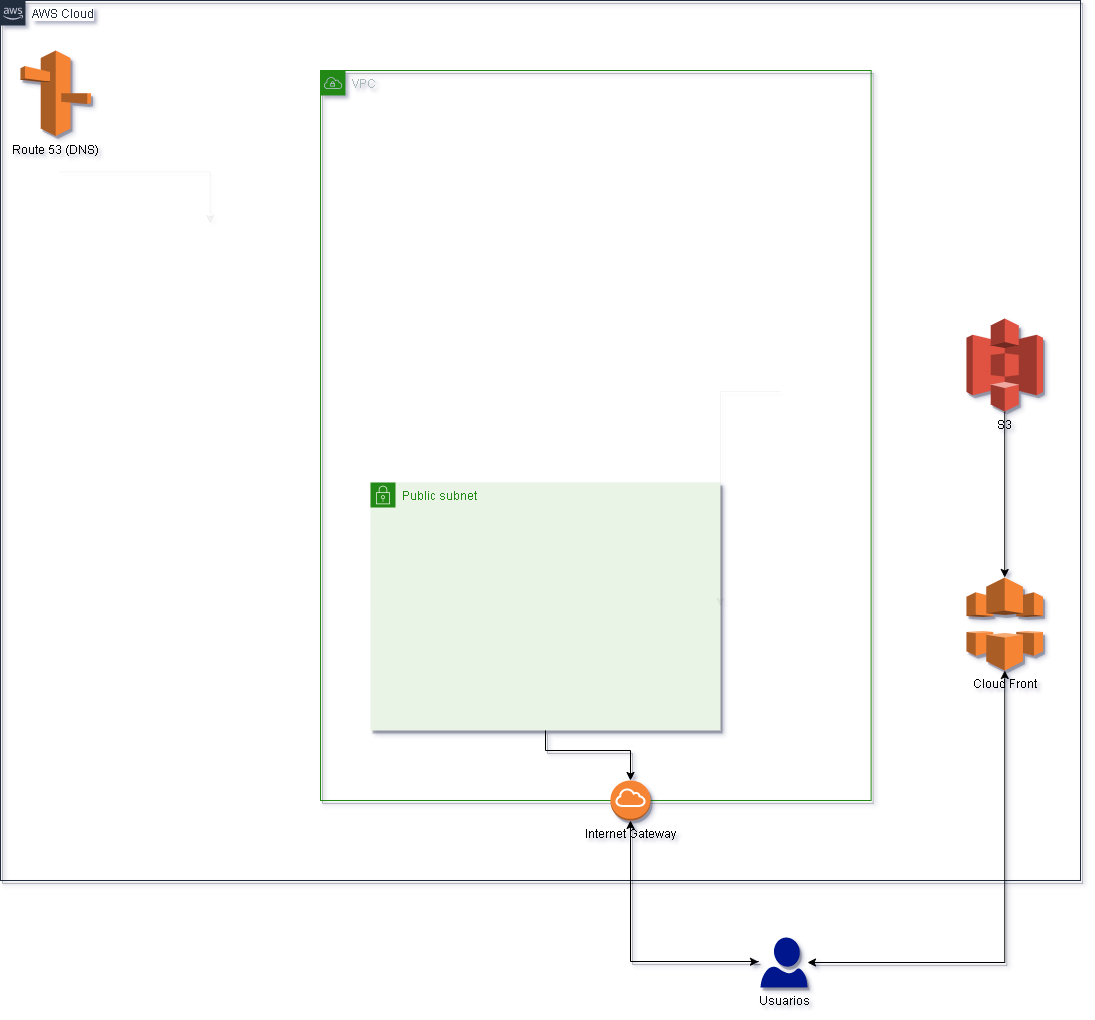
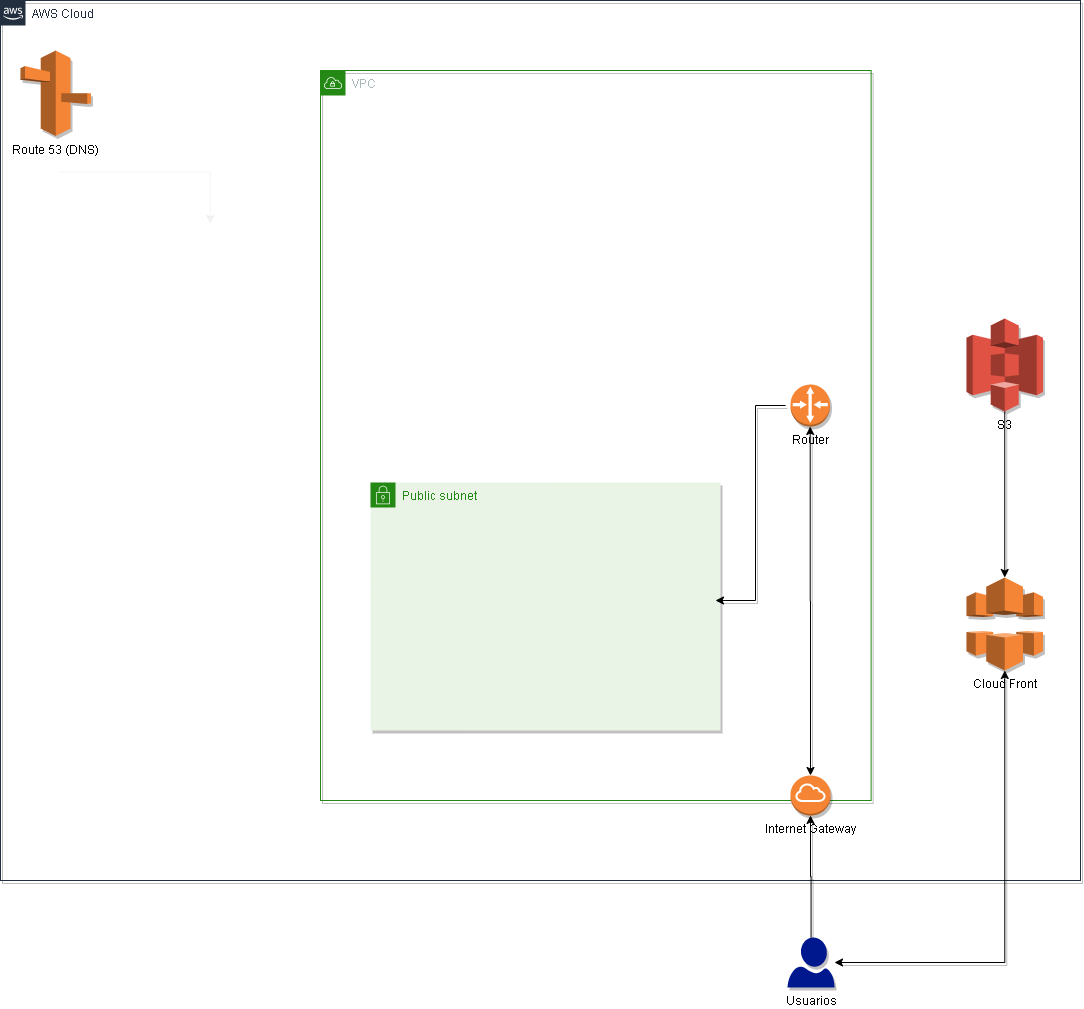
Agregar la tabla de routing

Changed region(s): [[0.0, 0.0, 1.0, 1.0], [0.0, 0.0614, 0.0913, 0.1536], [0.0, 0.0, 0.0913, 0.0307]]

diff --git a/4.-Contenido y redes con AWS/9.- postwork.md b/4.-Contenido y redes con AWS/9.- postwork.md
@@ -2,11 +2,11 @@
 
 
 ### 1. Objetivo :dart:
-- Conocer y configurar un entorno de red como piedra angular en el establecimiento de una infraestructura.
+- Conocer y configurar un entorno de red con subred pública como piedra angular en el establecimiento de una infraestructura.
 
 
 ### 2. Requisitos :clipboard:
-- Acces a AWS Console.
+- Acceso a AWS Console.
 - Diagrama del proyecto a la mano.
 - Calculadora CIDR
 
@@ -33,7 +33,7 @@ La red pública puede ser alcanzada por cualquier dispositivo desde internet, la
 
 4. Se establecen:
 a) Nombre de la VPC, se recomienda un nombre descriptivo, en este caso se hace referencia a la región a la que pertenece y el entorno en este producción, una forma de segmentar entornos de desarrollo y stagging es por medio de redes VPC.
-b) Se debe asignar el bloque de direcciones IP que tendrá la red completa, para el ejemplo, esta red con máscara 16 dará para configurar aproximadamente 256 redes con 256 direcciones IP disponibles en cada red. (Es aproximado por que AWS tomas algunas IP para su gestión interna)
+b) Se debe asignar el bloque de direcciones IP que tendrá la red completa, para el ejemplo, esta red con máscara 16 dará para configurar aproximadamente 256 redes con 256 direcciones IP disponibles en cada red. (Es aproximado por que AWS tomas algunas IP para su gestión interna, se recomienda en este punto interactuar con la calculadora IP)
 c) No se usará IPv6
 d) Se selecciona la opción default para decir a AWS que no se desea hardware de red dedicado.
 e) Asignar alguna Tag con fines administrativos y de identificación.
@@ -76,6 +76,20 @@ Habrá que dirigirse al menú izquierdo a la parte de "Internet Gateway" (a), de
 
 11. Seleccionar la VPC acabada de crear y dar click en "Attach internet gateway"
 ![pw1-assing-ig-to-vpc.png](pw1-assing-ig-to-vpc.png)
+
+12. En este punto se ha configurado la subred que debe tener acceso desde y hacia internet por medio de un Internet Gateway. Es momento de redirigir el tráfico que no es local hacia el Internet Gateway para dar salida a internet. Por defecto todos los dispositivos agregados a una subred se pueden comunicar entre ellos pero en caso de requerir acceso al repositorio de Ubuntu de actualizaciones para actualizar el sistema operativo en http://archive.ubuntu.com/ubuntu el tráfico simplemente no alcanzará la URL por que no se ha especificado el mecanismo para redirigir el tráfico. Al generar la VPC se genera una tabla de routeo por defecto, y cada vez que se genera una subred la subred es asociada a esta tabla de routeo por defecto. La tabla de routeo por defecto tiene lo necesario para comunicar los los dispositivos en la misma red. Al ingresar a las Tablas de Routeo en el menú (a) se pueden ver los detalles.
+
+![pw-route1-review-default-routing.png](pw-route1-review-default-routing.png)
+
+13. Para redireccionar el tráfico habrá que ir al menú "Route Tables" (a), de ahí dar click en "Edit routes" (b)
+![pw1-edit-routes.png](pw1-edit-routes.png)
+
+14. Agregar una nueva ruta en "Add route" (1), generando el nuevo registro con destino 0.0.0.0/0 (a) apuntando el tráfico hacia el Internet Gateway (b). Hay que notar como nombrar los elementos con una nomenclatura lo suficientemente explícita ayuda a la hora de configurar. Dar click en "Save routes"
+![pw1-add-rule-to-router.png](pw1-add-rule-to-router.png)
+
+![pw1-save-routes-01.png](pw1-save-routes-01.png)
+Con este cambio todo el tráfico que no sea local (no vaya dirigido a una ip de la red 10.0.0.0/16 en este caso) será dirigido al Internet Gateway dando acceso hacia y desde internet.
+
 
 Hasta ahora el avance en el proyecto es el siguiente. ¡Felicidades!
 ![pw1-Overview-vpc-networks](pw1-Overview-vpc-networks.png)
